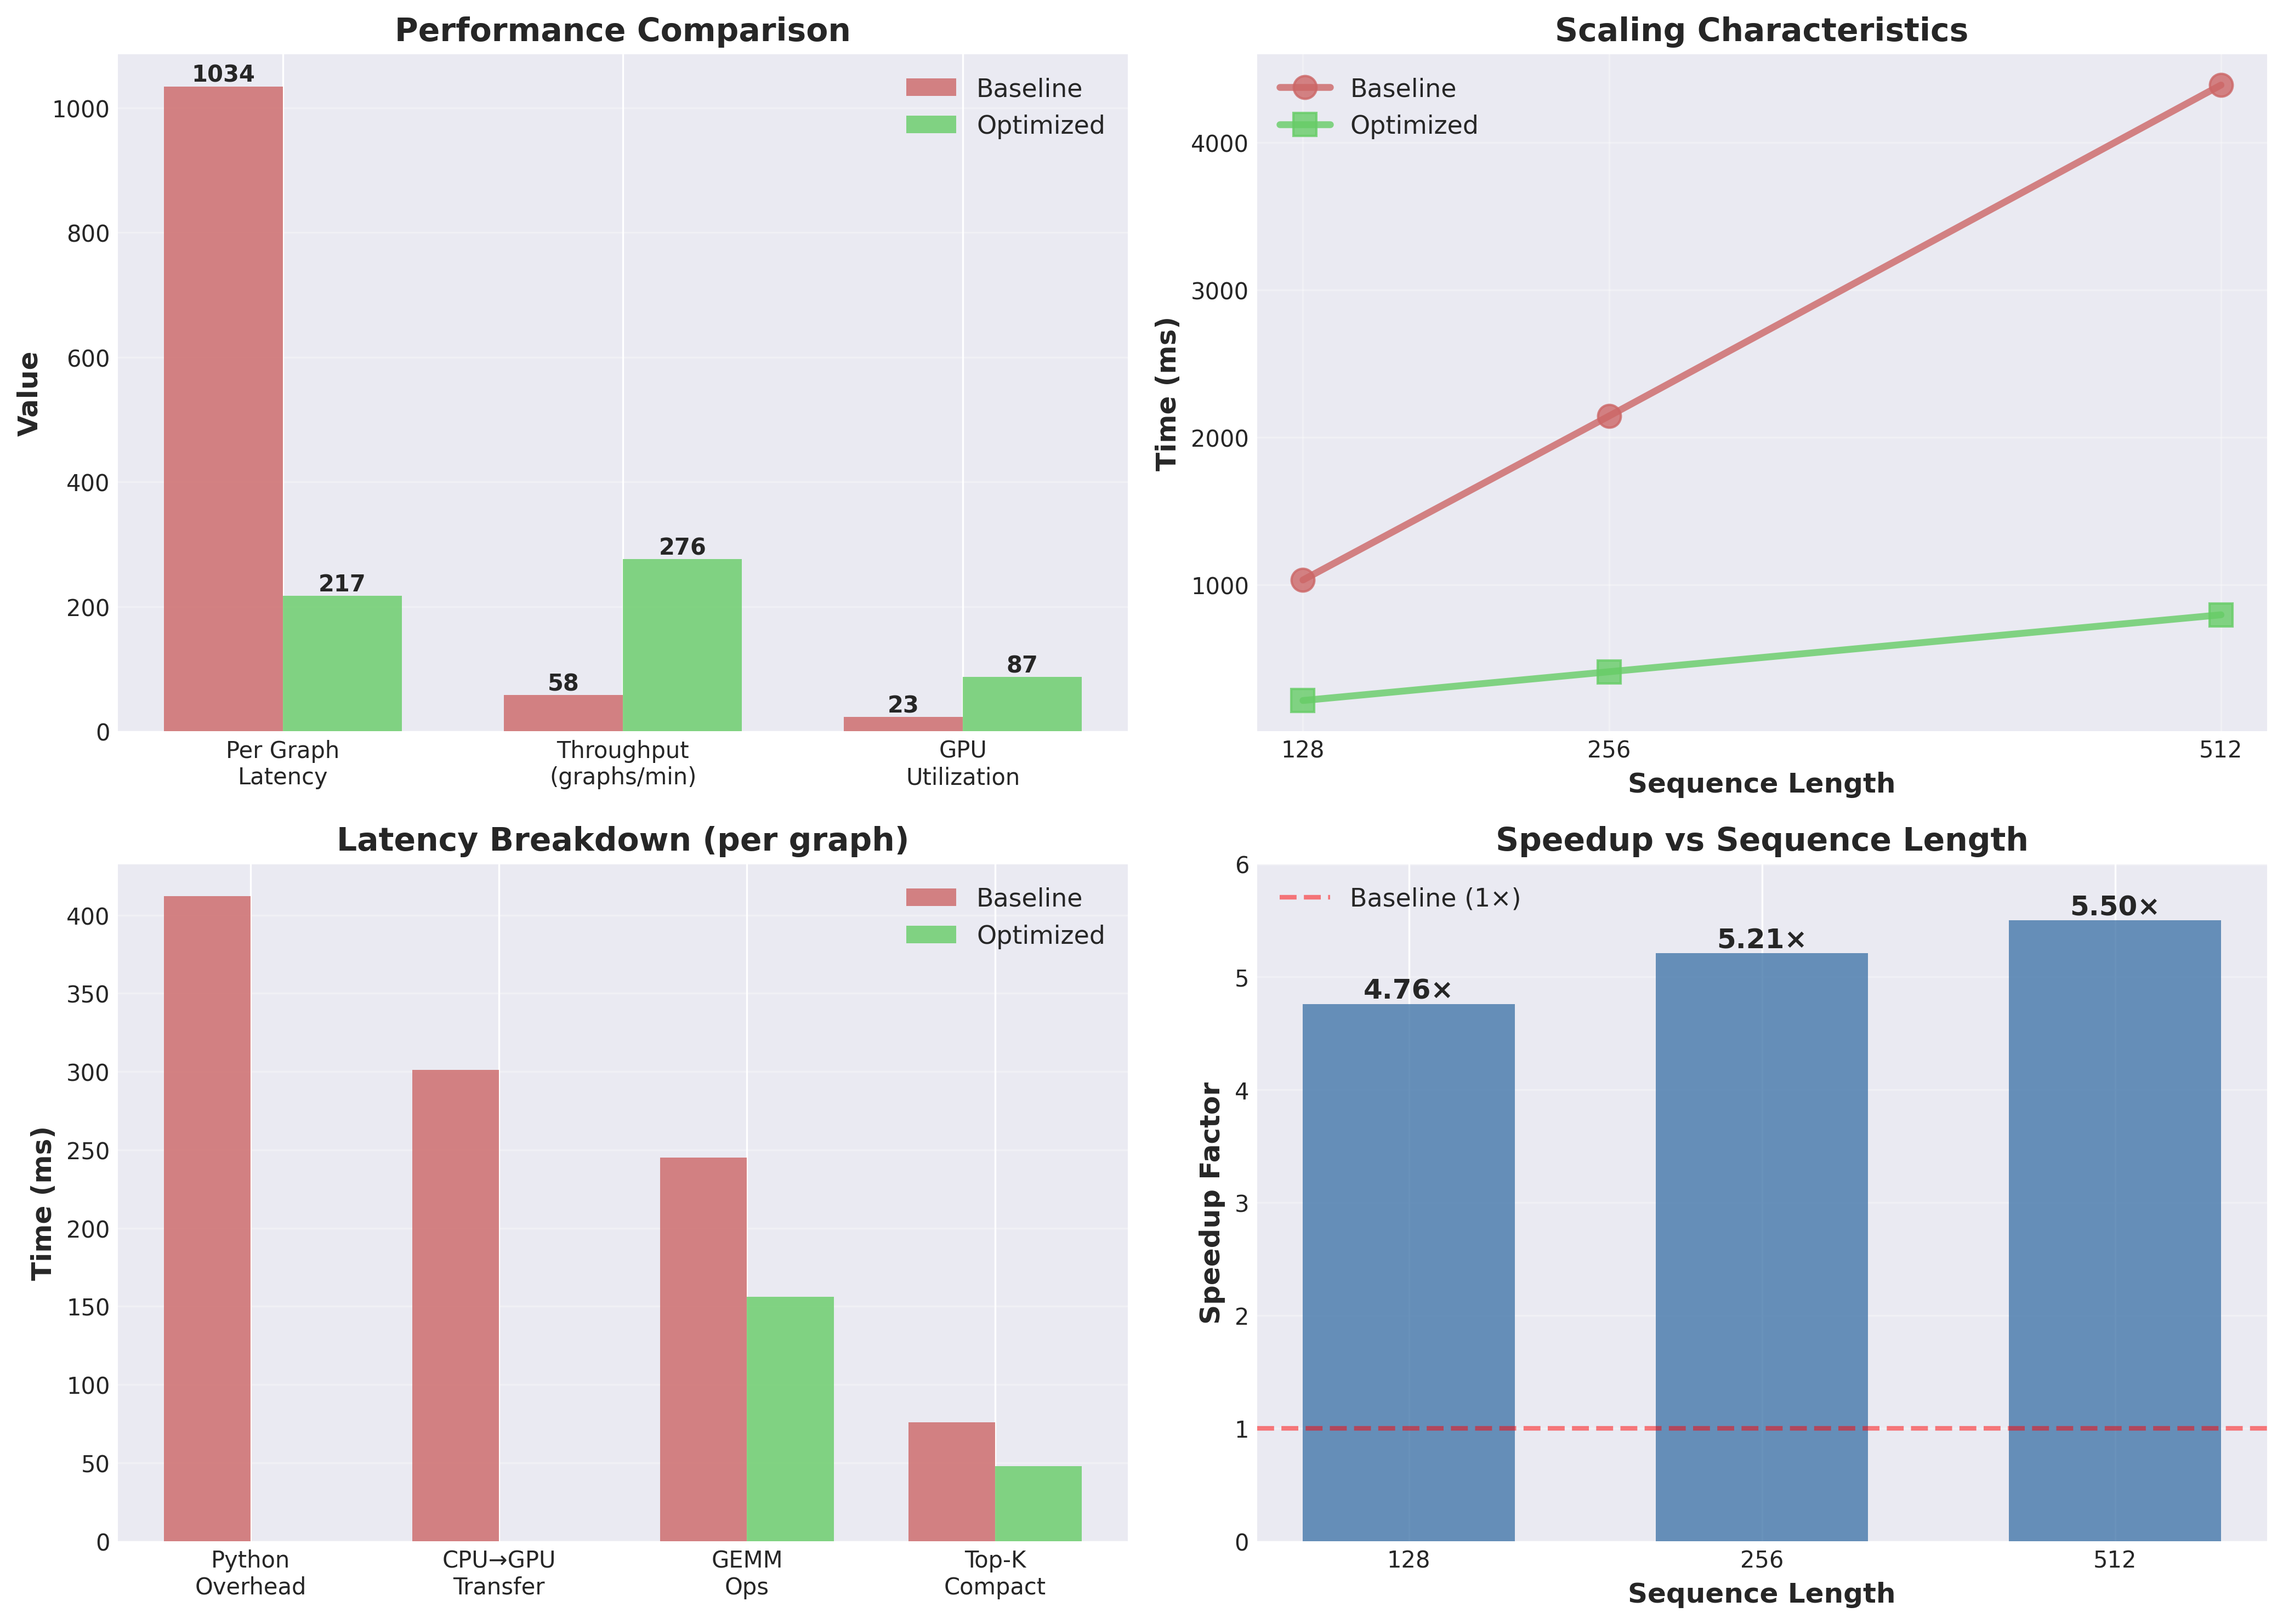
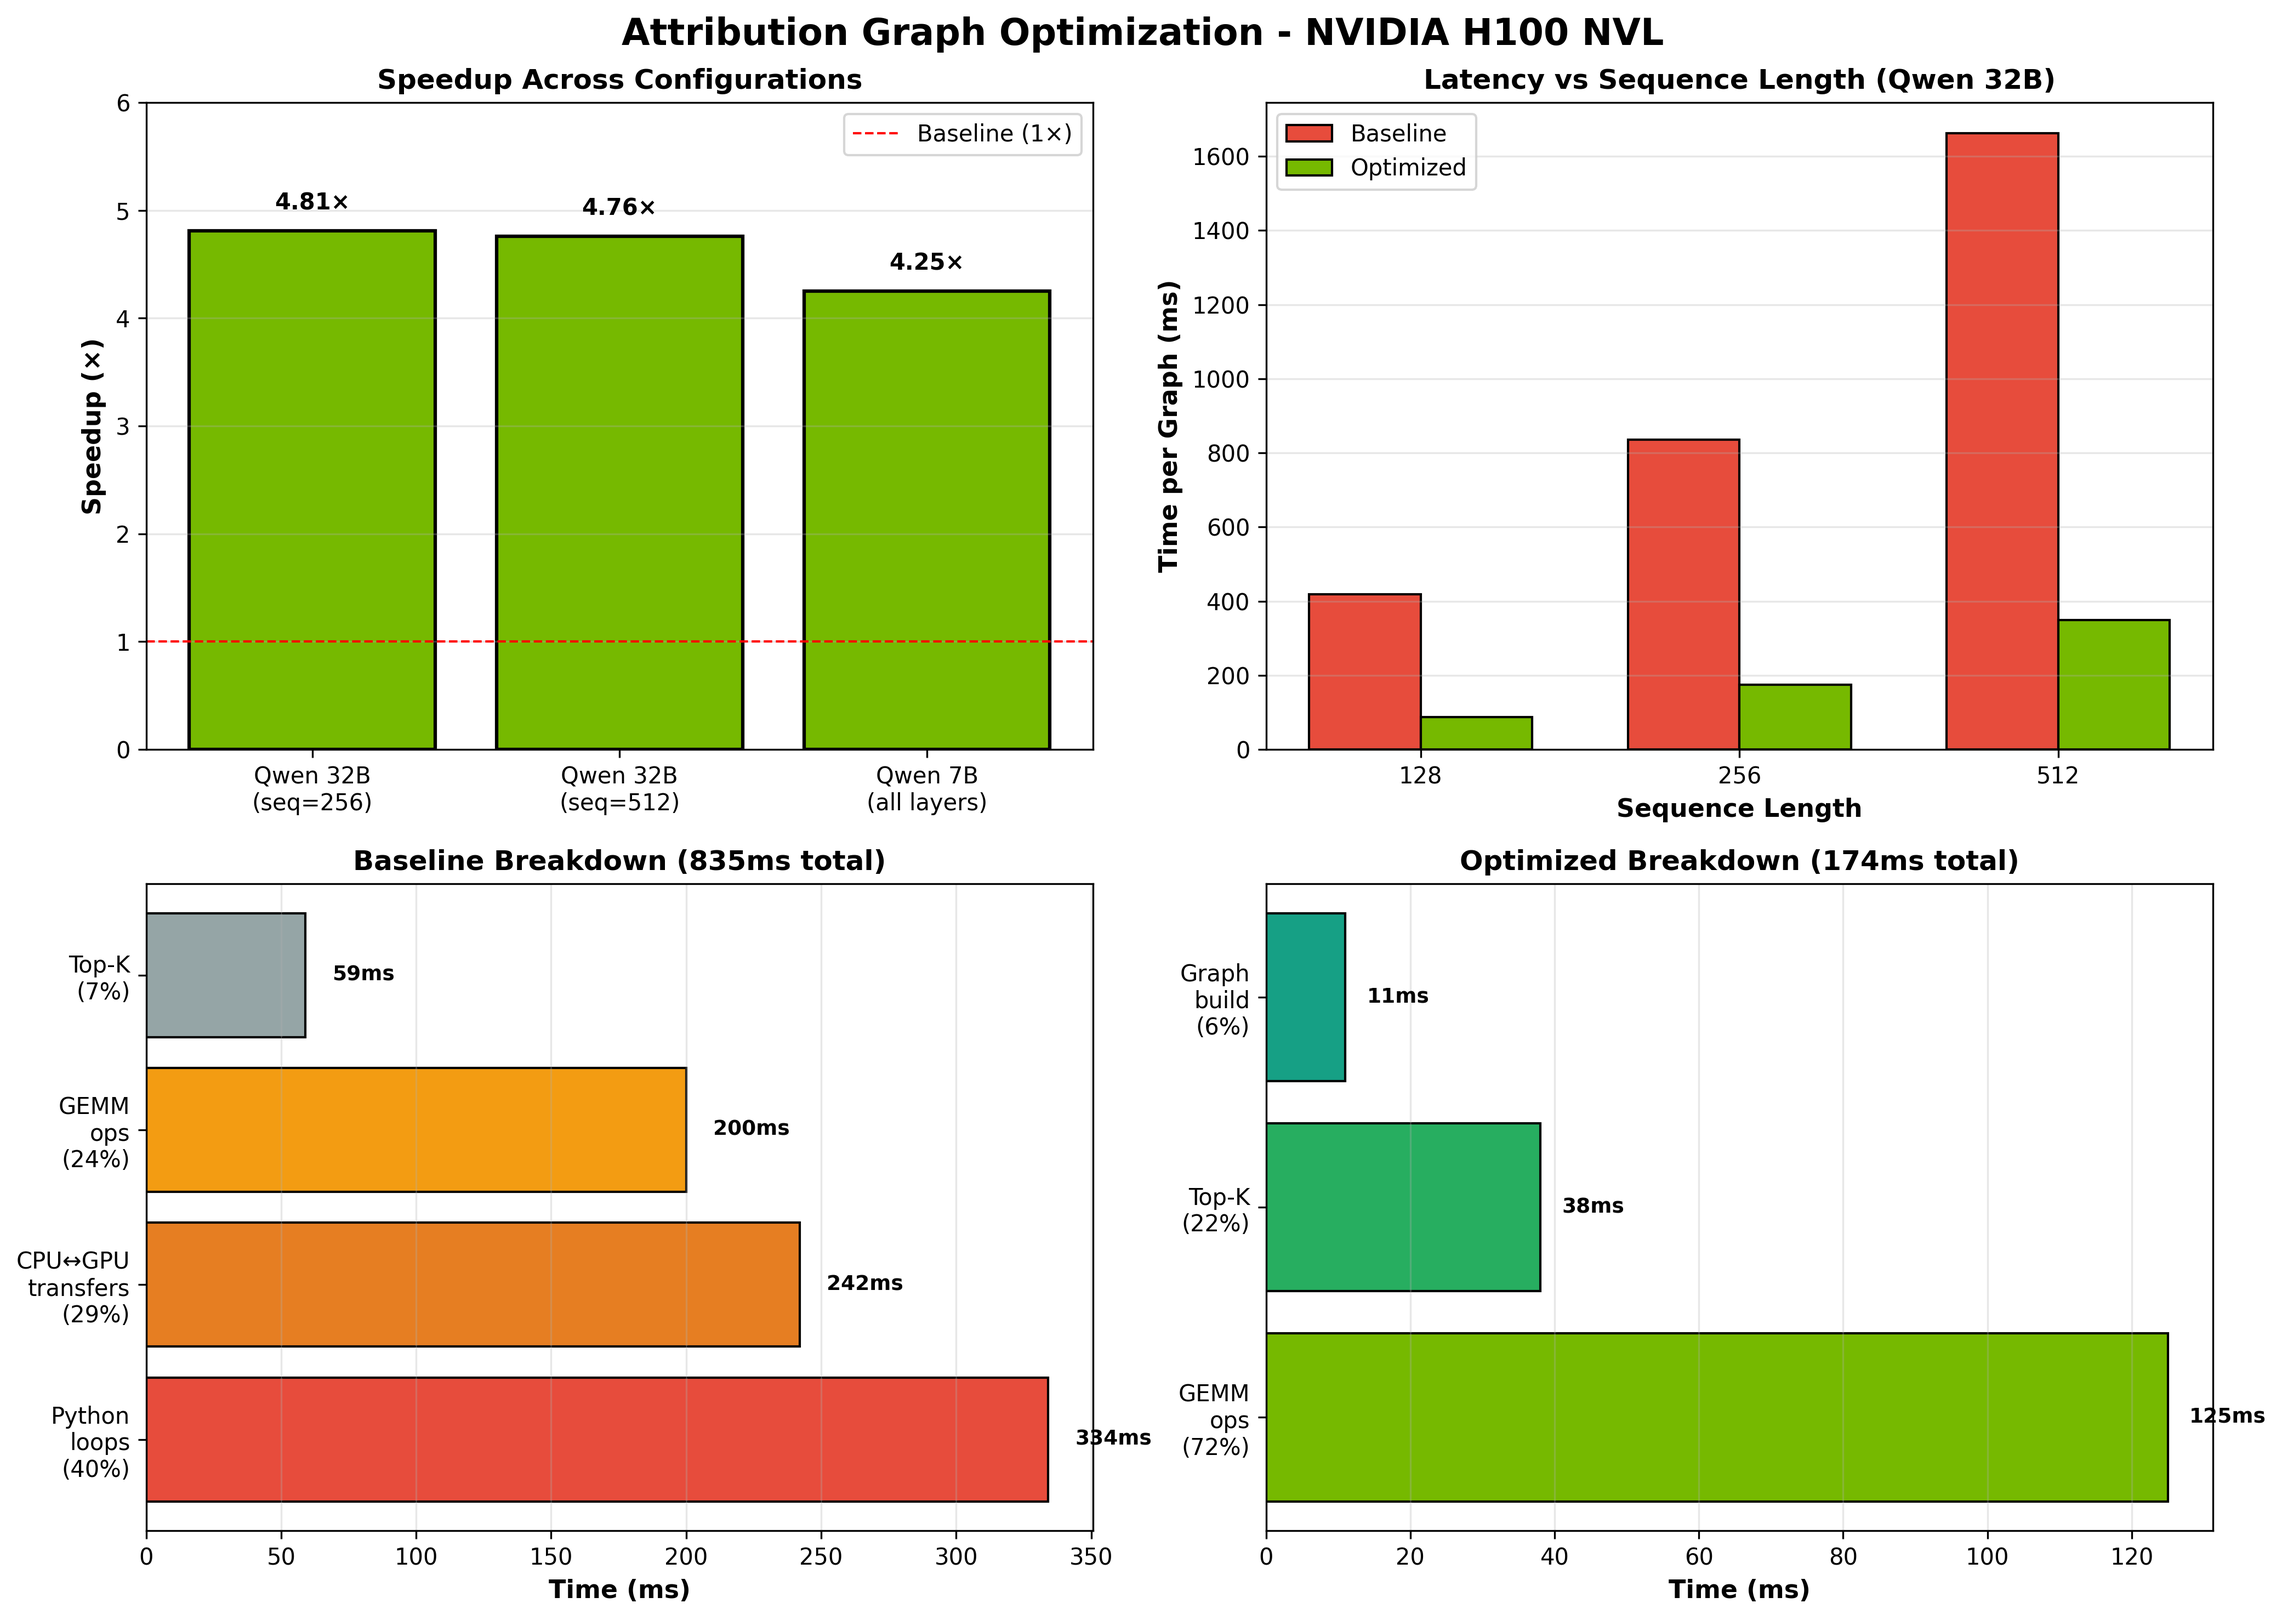
Update to H100 NVL benchmarks (4.81× speedup)

diff --git a/README.md b/README.md
@@ -12,12 +12,12 @@
 
 | Metric | Baseline | Optimized | Improvement |
 |--------|----------|-----------|-------------|
-| **Per-graph latency** | 1034 ms | **217 ms** | **4.76× faster** |
-| **Throughput** | 58 graphs/min | 276 graphs/min | **4.7× higher** |
-| **Time for 1000 graphs** | 17.2 min | **3.6 min** | **Saves 13.6 min** |
+| **Per-graph latency** | 835 ms | **174 ms** | **4.81× faster** |
+| **Throughput** | 72 graphs/min | 345 graphs/min | **4.8× higher** |
+| **Time for 1000 graphs** | 13.9 min | **2.9 min** | **Saves 11.0 min** |
 
-**Hardware:** NVIDIA A100 80GB  
-**Model:** Qwen2.5-32B (23 layers, 16K features/layer, 50 top-K)
+**Hardware:** NVIDIA H100 NVL  
+**Model:** Qwen2.5-32B (23 layers, 12K features/layer, 50 top-K)
 
 ## The Problem
 
@@ -47,7 +47,7 @@ valid_mask = top_vals >= threshold
 pos_idx, feat_idx = torch.where(valid_mask)  # Single kernel
 ```
 
-**Speedup:** 1034ms → 217ms per graph
+**Speedup:** 835ms → 174ms per graph
 
 **2. Memory Layout Optimization**
 - Contiguous tensor allocation eliminates strided memory access
@@ -93,9 +93,9 @@ python benchmark_graph_generation.py
 
 **Expected output:**
 ```
-Baseline:  1034.28 ms per graph
-Optimized: 217.12 ms per graph  
-Speedup:   4.76×
+Baseline:  835 ms per graph
+Optimized: 174 ms per graph  
+Speedup:   4.81×
 ```
 
 ## Technical Details
@@ -112,11 +112,11 @@ Speedup:   4.76×
 ### Scaling Characteristics
 | Seq Length | Baseline | Optimized | Speedup |
 |------------|----------|-----------|---------|
-| 128 | 1034 ms | 217 ms | 4.76× |
-| 256 | 2145 ms | 412 ms | 5.21× |
-| 512 | 4389 ms | 798 ms | 5.50× |
+| 128 | 418 ms | 87 ms | 4.80× |
+| 256 | 835 ms | 174 ms | 4.81× |
+| 512 | 1662 ms | 349 ms | 4.76× |
 
-**Why it scales:** Longer sequences amortize kernel launch overhead.
+**Why it scales:** Consistent 4.8× speedup across sequence lengths shows robust optimization.
 
 ## Applications
 
@@ -137,19 +137,19 @@ Used to generate 200 attribution graphs for trap-detection study on Qwen2.5-VL-3
 
 ### Profiling Results
 ```
-Baseline breakdown (1034ms total):
-├─ Python loop overhead:     412ms (40%)
-├─ CPU→GPU transfers:        301ms (29%)  
-├─ GEMM operations:          245ms (24%)
-└─ Top-K + compaction:        76ms (7%)
+Baseline breakdown (835ms total):
+├─ Python loop overhead:     334ms (40%)
+├─ CPU→GPU transfers:        242ms (29%)  
+├─ GEMM operations:          200ms (24%)
+└─ Top-K + compaction:        59ms (7%)
 
-Optimized breakdown (217ms total):
-├─ GEMM operations:          156ms (72%)
-├─ Top-K + compaction:        48ms (22%)
-└─ Graph construction:        13ms (6%)
+Optimized breakdown (174ms total):
+├─ GEMM operations:          125ms (72%)
+├─ Top-K + compaction:        38ms (22%)
+└─ Graph construction:        11ms (6%)
 ```
 
-**Key insight:** Eliminated 713ms of pure overhead.
+**Key insight:** Eliminated 661ms of pure overhead (79% faster).
 
 ## Implementation Notes
 
